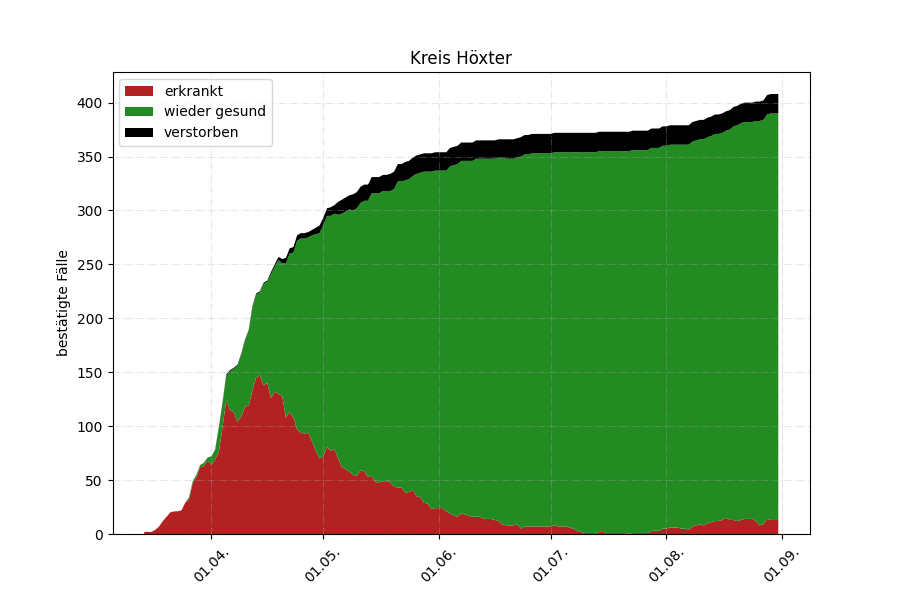
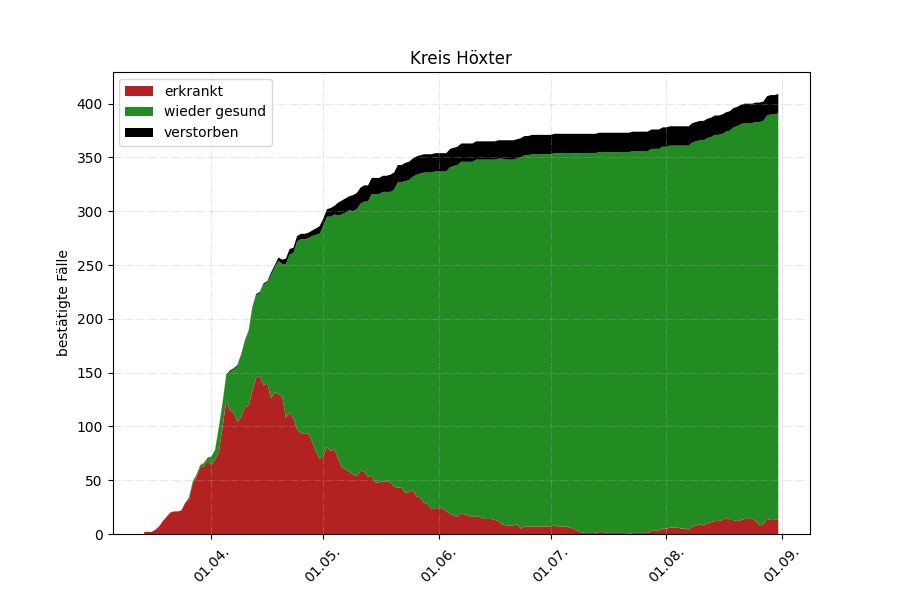
Stand 31. August, 2

diff --git a/communes/marienmuenster.html b/communes/marienmuenster.html
@@ -18,10 +18,10 @@
 <meta property="og:url" content="https://covidoplot.github.io/communes/marienmuenster.html" />
 <meta property="og:site_name" content="Covid 19 im Kreis Höxter" />
 <meta property="og:type" content="article" />
-<meta property="article:published_time" content="2020-08-31T10:36:01+02:00" />
+<meta property="article:published_time" content="2020-08-31T10:45:40+02:00" />
 <meta name="google-site-verification" content="Jy9GjP1zJSZb24WTJkI5fc6zPYqWLYs0bo6EZXmsmKY" />
 <script type="application/ld+json">
-{"url":"https://covidoplot.github.io/communes/marienmuenster.html","headline":"Marienmünster","dateModified":"2020-08-31T10:36:01+02:00","datePublished":"2020-08-31T10:36:01+02:00","mainEntityOfPage":{"@type":"WebPage","@id":"https://covidoplot.github.io/communes/marienmuenster.html"},"author":{"@type":"Person","name":"Elmar Hinz"},"description":"Daten und Diagramme zur Coronavirus-Krankheit 2019 in Marienmünster","@type":"BlogPosting","@context":"https://schema.org"}</script>
+{"url":"https://covidoplot.github.io/communes/marienmuenster.html","headline":"Marienmünster","dateModified":"2020-08-31T10:45:40+02:00","datePublished":"2020-08-31T10:45:40+02:00","mainEntityOfPage":{"@type":"WebPage","@id":"https://covidoplot.github.io/communes/marienmuenster.html"},"author":{"@type":"Person","name":"Elmar Hinz"},"description":"Daten und Diagramme zur Coronavirus-Krankheit 2019 in Marienmünster","@type":"BlogPosting","@context":"https://schema.org"}</script>
 <!-- End Jekyll SEO tag -->
 
 </head>

diff --git a/communes/willebadessen.html b/communes/willebadessen.html
@@ -18,10 +18,10 @@
 <meta property="og:url" content="https://covidoplot.github.io/communes/willebadessen.html" />
 <meta property="og:site_name" content="Covid 19 im Kreis Höxter" />
 <meta property="og:type" content="article" />
-<meta property="article:published_time" content="2020-08-31T10:36:01+02:00" />
+<meta property="article:published_time" content="2020-08-31T10:45:40+02:00" />
 <meta name="google-site-verification" content="Jy9GjP1zJSZb24WTJkI5fc6zPYqWLYs0bo6EZXmsmKY" />
 <script type="application/ld+json">
-{"url":"https://covidoplot.github.io/communes/willebadessen.html","headline":"Willebadessen","dateModified":"2020-08-31T10:36:01+02:00","datePublished":"2020-08-31T10:36:01+02:00","mainEntityOfPage":{"@type":"WebPage","@id":"https://covidoplot.github.io/communes/willebadessen.html"},"author":{"@type":"Person","name":"Elmar Hinz"},"description":"Daten und Diagramme zur Coronavirus-Krankheit 2019 in Willebadessen","@type":"BlogPosting","@context":"https://schema.org"}</script>
+{"url":"https://covidoplot.github.io/communes/willebadessen.html","headline":"Willebadessen","dateModified":"2020-08-31T10:45:40+02:00","datePublished":"2020-08-31T10:45:40+02:00","mainEntityOfPage":{"@type":"WebPage","@id":"https://covidoplot.github.io/communes/willebadessen.html"},"author":{"@type":"Person","name":"Elmar Hinz"},"description":"Daten und Diagramme zur Coronavirus-Krankheit 2019 in Willebadessen","@type":"BlogPosting","@context":"https://schema.org"}</script>
 <!-- End Jekyll SEO tag -->
 
 </head>

diff --git a/communes/borgentreich.html b/communes/borgentreich.html
@@ -18,10 +18,10 @@
 <meta property="og:url" content="https://covidoplot.github.io/communes/borgentreich.html" />
 <meta property="og:site_name" content="Covid 19 im Kreis Höxter" />
 <meta property="og:type" content="article" />
-<meta property="article:published_time" content="2020-08-31T10:36:01+02:00" />
+<meta property="article:published_time" content="2020-08-31T10:45:40+02:00" />
 <meta name="google-site-verification" content="Jy9GjP1zJSZb24WTJkI5fc6zPYqWLYs0bo6EZXmsmKY" />
 <script type="application/ld+json">
-{"url":"https://covidoplot.github.io/communes/borgentreich.html","headline":"Borgentreich","dateModified":"2020-08-31T10:36:01+02:00","datePublished":"2020-08-31T10:36:01+02:00","mainEntityOfPage":{"@type":"WebPage","@id":"https://covidoplot.github.io/communes/borgentreich.html"},"author":{"@type":"Person","name":"Elmar Hinz"},"description":"Daten und Diagramme zur Coronavirus-Krankheit 2019 in Borgentreich","@type":"BlogPosting","@context":"https://schema.org"}</script>
+{"url":"https://covidoplot.github.io/communes/borgentreich.html","headline":"Borgentreich","dateModified":"2020-08-31T10:45:40+02:00","datePublished":"2020-08-31T10:45:40+02:00","mainEntityOfPage":{"@type":"WebPage","@id":"https://covidoplot.github.io/communes/borgentreich.html"},"author":{"@type":"Person","name":"Elmar Hinz"},"description":"Daten und Diagramme zur Coronavirus-Krankheit 2019 in Borgentreich","@type":"BlogPosting","@context":"https://schema.org"}</script>
 <!-- End Jekyll SEO tag -->
 
 </head>

diff --git a/communes/bad-driburg.html b/communes/bad-driburg.html
@@ -18,10 +18,10 @@
 <meta property="og:url" content="https://covidoplot.github.io/communes/bad-driburg.html" />
 <meta property="og:site_name" content="Covid 19 im Kreis Höxter" />
 <meta property="og:type" content="article" />
-<meta property="article:published_time" content="2020-08-31T10:36:01+02:00" />
+<meta property="article:published_time" content="2020-08-31T10:45:40+02:00" />
 <meta name="google-site-verification" content="Jy9GjP1zJSZb24WTJkI5fc6zPYqWLYs0bo6EZXmsmKY" />
 <script type="application/ld+json">
-{"url":"https://covidoplot.github.io/communes/bad-driburg.html","headline":"Bad Driburg","dateModified":"2020-08-31T10:36:01+02:00","datePublished":"2020-08-31T10:36:01+02:00","mainEntityOfPage":{"@type":"WebPage","@id":"https://covidoplot.github.io/communes/bad-driburg.html"},"author":{"@type":"Person","name":"Elmar Hinz"},"description":"Daten und Diagramme zur Coronavirus-Krankheit 2019 in Bad Driburg","@type":"BlogPosting","@context":"https://schema.org"}</script>
+{"url":"https://covidoplot.github.io/communes/bad-driburg.html","headline":"Bad Driburg","dateModified":"2020-08-31T10:45:40+02:00","datePublished":"2020-08-31T10:45:40+02:00","mainEntityOfPage":{"@type":"WebPage","@id":"https://covidoplot.github.io/communes/bad-driburg.html"},"author":{"@type":"Person","name":"Elmar Hinz"},"description":"Daten und Diagramme zur Coronavirus-Krankheit 2019 in Bad Driburg","@type":"BlogPosting","@context":"https://schema.org"}</script>
 <!-- End Jekyll SEO tag -->
 
 </head>

diff --git a/communes/beverungen.html b/communes/beverungen.html
@@ -18,10 +18,10 @@
 <meta property="og:url" content="https://covidoplot.github.io/communes/beverungen.html" />
 <meta property="og:site_name" content="Covid 19 im Kreis Höxter" />
 <meta property="og:type" content="article" />
-<meta property="article:published_time" content="2020-08-31T10:36:01+02:00" />
+<meta property="article:published_time" content="2020-08-31T10:45:40+02:00" />
 <meta name="google-site-verification" content="Jy9GjP1zJSZb24WTJkI5fc6zPYqWLYs0bo6EZXmsmKY" />
 <script type="application/ld+json">
-{"url":"https://covidoplot.github.io/communes/beverungen.html","headline":"Beverungen","dateModified":"2020-08-31T10:36:01+02:00","datePublished":"2020-08-31T10:36:01+02:00","mainEntityOfPage":{"@type":"WebPage","@id":"https://covidoplot.github.io/communes/beverungen.html"},"author":{"@type":"Person","name":"Elmar Hinz"},"description":"Daten und Diagramme zur Coronavirus-Krankheit 2019 in Beverungen","@type":"BlogPosting","@context":"https://schema.org"}</script>
+{"url":"https://covidoplot.github.io/communes/beverungen.html","headline":"Beverungen","dateModified":"2020-08-31T10:45:40+02:00","datePublished":"2020-08-31T10:45:40+02:00","mainEntityOfPage":{"@type":"WebPage","@id":"https://covidoplot.github.io/communes/beverungen.html"},"author":{"@type":"Person","name":"Elmar Hinz"},"description":"Daten und Diagramme zur Coronavirus-Krankheit 2019 in Beverungen","@type":"BlogPosting","@context":"https://schema.org"}</script>
 <!-- End Jekyll SEO tag -->
 
 </head>

diff --git a/communes/steinheim.html b/communes/steinheim.html
@@ -18,10 +18,10 @@
 <meta property="og:url" content="https://covidoplot.github.io/communes/steinheim.html" />
 <meta property="og:site_name" content="Covid 19 im Kreis Höxter" />
 <meta property="og:type" content="article" />
-<meta property="article:published_time" content="2020-08-31T10:36:01+02:00" />
+<meta property="article:published_time" content="2020-08-31T10:45:40+02:00" />
 <meta name="google-site-verification" content="Jy9GjP1zJSZb24WTJkI5fc6zPYqWLYs0bo6EZXmsmKY" />
 <script type="application/ld+json">
-{"url":"https://covidoplot.github.io/communes/steinheim.html","headline":"Steinheim","dateModified":"2020-08-31T10:36:01+02:00","datePublished":"2020-08-31T10:36:01+02:00","mainEntityOfPage":{"@type":"WebPage","@id":"https://covidoplot.github.io/communes/steinheim.html"},"author":{"@type":"Person","name":"Elmar Hinz"},"description":"Daten und Diagramme zur Coronavirus-Krankheit 2019 in Steinheim","@type":"BlogPosting","@context":"https://schema.org"}</script>
+{"url":"https://covidoplot.github.io/communes/steinheim.html","headline":"Steinheim","dateModified":"2020-08-31T10:45:40+02:00","datePublished":"2020-08-31T10:45:40+02:00","mainEntityOfPage":{"@type":"WebPage","@id":"https://covidoplot.github.io/communes/steinheim.html"},"author":{"@type":"Person","name":"Elmar Hinz"},"description":"Daten und Diagramme zur Coronavirus-Krankheit 2019 in Steinheim","@type":"BlogPosting","@context":"https://schema.org"}</script>
 <!-- End Jekyll SEO tag -->
 
 </head>

diff --git a/communes/hoexter.html b/communes/hoexter.html
@@ -18,10 +18,10 @@
 <meta property="og:url" content="https://covidoplot.github.io/communes/hoexter.html" />
 <meta property="og:site_name" content="Covid 19 im Kreis Höxter" />
 <meta property="og:type" content="article" />
-<meta property="article:published_time" content="2020-08-31T10:36:01+02:00" />
+<meta property="article:published_time" content="2020-08-31T10:45:40+02:00" />
 <meta name="google-site-verification" content="Jy9GjP1zJSZb24WTJkI5fc6zPYqWLYs0bo6EZXmsmKY" />
 <script type="application/ld+json">
-{"url":"https://covidoplot.github.io/communes/hoexter.html","headline":"Höxter","dateModified":"2020-08-31T10:36:01+02:00","datePublished":"2020-08-31T10:36:01+02:00","mainEntityOfPage":{"@type":"WebPage","@id":"https://covidoplot.github.io/communes/hoexter.html"},"author":{"@type":"Person","name":"Elmar Hinz"},"description":"Daten und Diagramme zur Coronavirus-Krankheit 2019 in Höxter","@type":"BlogPosting","@context":"https://schema.org"}</script>
+{"url":"https://covidoplot.github.io/communes/hoexter.html","headline":"Höxter","dateModified":"2020-08-31T10:45:40+02:00","datePublished":"2020-08-31T10:45:40+02:00","mainEntityOfPage":{"@type":"WebPage","@id":"https://covidoplot.github.io/communes/hoexter.html"},"author":{"@type":"Person","name":"Elmar Hinz"},"description":"Daten und Diagramme zur Coronavirus-Krankheit 2019 in Höxter","@type":"BlogPosting","@context":"https://schema.org"}</script>
 <!-- End Jekyll SEO tag -->
 
 </head>

diff --git a/communes/nieheim.html b/communes/nieheim.html
@@ -18,10 +18,10 @@
 <meta property="og:url" content="https://covidoplot.github.io/communes/nieheim.html" />
 <meta property="og:site_name" content="Covid 19 im Kreis Höxter" />
 <meta property="og:type" content="article" />
-<meta property="article:published_time" content="2020-08-31T10:36:01+02:00" />
+<meta property="article:published_time" content="2020-08-31T10:45:40+02:00" />
 <meta name="google-site-verification" content="Jy9GjP1zJSZb24WTJkI5fc6zPYqWLYs0bo6EZXmsmKY" />
 <script type="application/ld+json">
-{"url":"https://covidoplot.github.io/communes/nieheim.html","headline":"Nieheim","dateModified":"2020-08-31T10:36:01+02:00","datePublished":"2020-08-31T10:36:01+02:00","mainEntityOfPage":{"@type":"WebPage","@id":"https://covidoplot.github.io/communes/nieheim.html"},"author":{"@type":"Person","name":"Elmar Hinz"},"description":"Daten und Diagramme zur Coronavirus-Krankheit 2019 in Nieheim","@type":"BlogPosting","@context":"https://schema.org"}</script>
+{"url":"https://covidoplot.github.io/communes/nieheim.html","headline":"Nieheim","dateModified":"2020-08-31T10:45:40+02:00","datePublished":"2020-08-31T10:45:40+02:00","mainEntityOfPage":{"@type":"WebPage","@id":"https://covidoplot.github.io/communes/nieheim.html"},"author":{"@type":"Person","name":"Elmar Hinz"},"description":"Daten und Diagramme zur Coronavirus-Krankheit 2019 in Nieheim","@type":"BlogPosting","@context":"https://schema.org"}</script>
 <!-- End Jekyll SEO tag -->
 
 </head>

diff --git a/communes/warburg.html b/communes/warburg.html
@@ -18,10 +18,10 @@
 <meta property="og:url" content="https://covidoplot.github.io/communes/warburg.html" />
 <meta property="og:site_name" content="Covid 19 im Kreis Höxter" />
 <meta property="og:type" content="article" />
-<meta property="article:published_time" content="2020-08-31T10:36:01+02:00" />
+<meta property="article:published_time" content="2020-08-31T10:45:40+02:00" />
 <meta name="google-site-verification" content="Jy9GjP1zJSZb24WTJkI5fc6zPYqWLYs0bo6EZXmsmKY" />
 <script type="application/ld+json">
-{"url":"https://covidoplot.github.io/communes/warburg.html","headline":"Warburg","dateModified":"2020-08-31T10:36:01+02:00","datePublished":"2020-08-31T10:36:01+02:00","mainEntityOfPage":{"@type":"WebPage","@id":"https://covidoplot.github.io/communes/warburg.html"},"author":{"@type":"Person","name":"Elmar Hinz"},"description":"Daten und Diagramme zur Coronavirus-Krankheit 2019 in Warburg","@type":"BlogPosting","@context":"https://schema.org"}</script>
+{"url":"https://covidoplot.github.io/communes/warburg.html","headline":"Warburg","dateModified":"2020-08-31T10:45:40+02:00","datePublished":"2020-08-31T10:45:40+02:00","mainEntityOfPage":{"@type":"WebPage","@id":"https://covidoplot.github.io/communes/warburg.html"},"author":{"@type":"Person","name":"Elmar Hinz"},"description":"Daten und Diagramme zur Coronavirus-Krankheit 2019 in Warburg","@type":"BlogPosting","@context":"https://schema.org"}</script>
 <!-- End Jekyll SEO tag -->
 
 </head>

diff --git a/communes/brakel.html b/communes/brakel.html
@@ -18,10 +18,10 @@
 <meta property="og:url" content="https://covidoplot.github.io/communes/brakel.html" />
 <meta property="og:site_name" content="Covid 19 im Kreis Höxter" />
 <meta property="og:type" content="article" />
-<meta property="article:published_time" content="2020-08-31T10:36:01+02:00" />
+<meta property="article:published_time" content="2020-08-31T10:45:40+02:00" />
 <meta name="google-site-verification" content="Jy9GjP1zJSZb24WTJkI5fc6zPYqWLYs0bo6EZXmsmKY" />
 <script type="application/ld+json">
-{"url":"https://covidoplot.github.io/communes/brakel.html","headline":"Brakel","dateModified":"2020-08-31T10:36:01+02:00","datePublished":"2020-08-31T10:36:01+02:00","mainEntityOfPage":{"@type":"WebPage","@id":"https://covidoplot.github.io/communes/brakel.html"},"author":{"@type":"Person","name":"Elmar Hinz"},"description":"Daten und Diagramme zur Coronavirus-Krankheit 2019 in Brakel","@type":"BlogPosting","@context":"https://schema.org"}</script>
+{"url":"https://covidoplot.github.io/communes/brakel.html","headline":"Brakel","dateModified":"2020-08-31T10:45:40+02:00","datePublished":"2020-08-31T10:45:40+02:00","mainEntityOfPage":{"@type":"WebPage","@id":"https://covidoplot.github.io/communes/brakel.html"},"author":{"@type":"Person","name":"Elmar Hinz"},"description":"Daten und Diagramme zur Coronavirus-Krankheit 2019 in Brakel","@type":"BlogPosting","@context":"https://schema.org"}</script>
 <!-- End Jekyll SEO tag -->
 
 </head>

diff --git a/kreis-hoexter.html b/kreis-hoexter.html
@@ -323,7 +323,9 @@
         <tfoot>
         <tr class="">
             <th scope="row" class="table-secondary">Insgesamt</th>
-            <td class="table-secondary">13
+            <td class="table-secondary">14
+                
+                <small>(13)</small>
                 
             </td>
             <td class="table-secondary">377
@@ -332,7 +334,9 @@
             <td class="table-secondary">18
                 
             </td>
-            <td class="table-secondary"><strong>408
+            <td class="table-secondary"><strong>409
+                
+                <small>(408)</small>
                 
             </strong></td>
         </tr>
@@ -2016,10 +2020,10 @@
         
         <tr>
             <td class="table-secondary">31. August</td>
-            <td>13</td>
+            <td>14</td>
             <td>377</td>
             <td>18</td>
-            <td class="table-secondary">408</td>
+            <td class="table-secondary">409</td>
         </tr>
         
         </tbody>

diff --git a/index.html b/index.html
@@ -100,10 +100,10 @@
         </thead>
         <tbody>
         <tr>
-            <td>13</td>
+            <td>14</td>
             <td>377</td>
             <td>18</td>
-            <td><strong>408</strong></td>
+            <td><strong>409</strong></td>
         </tr>
         </tbody>
     </table>
